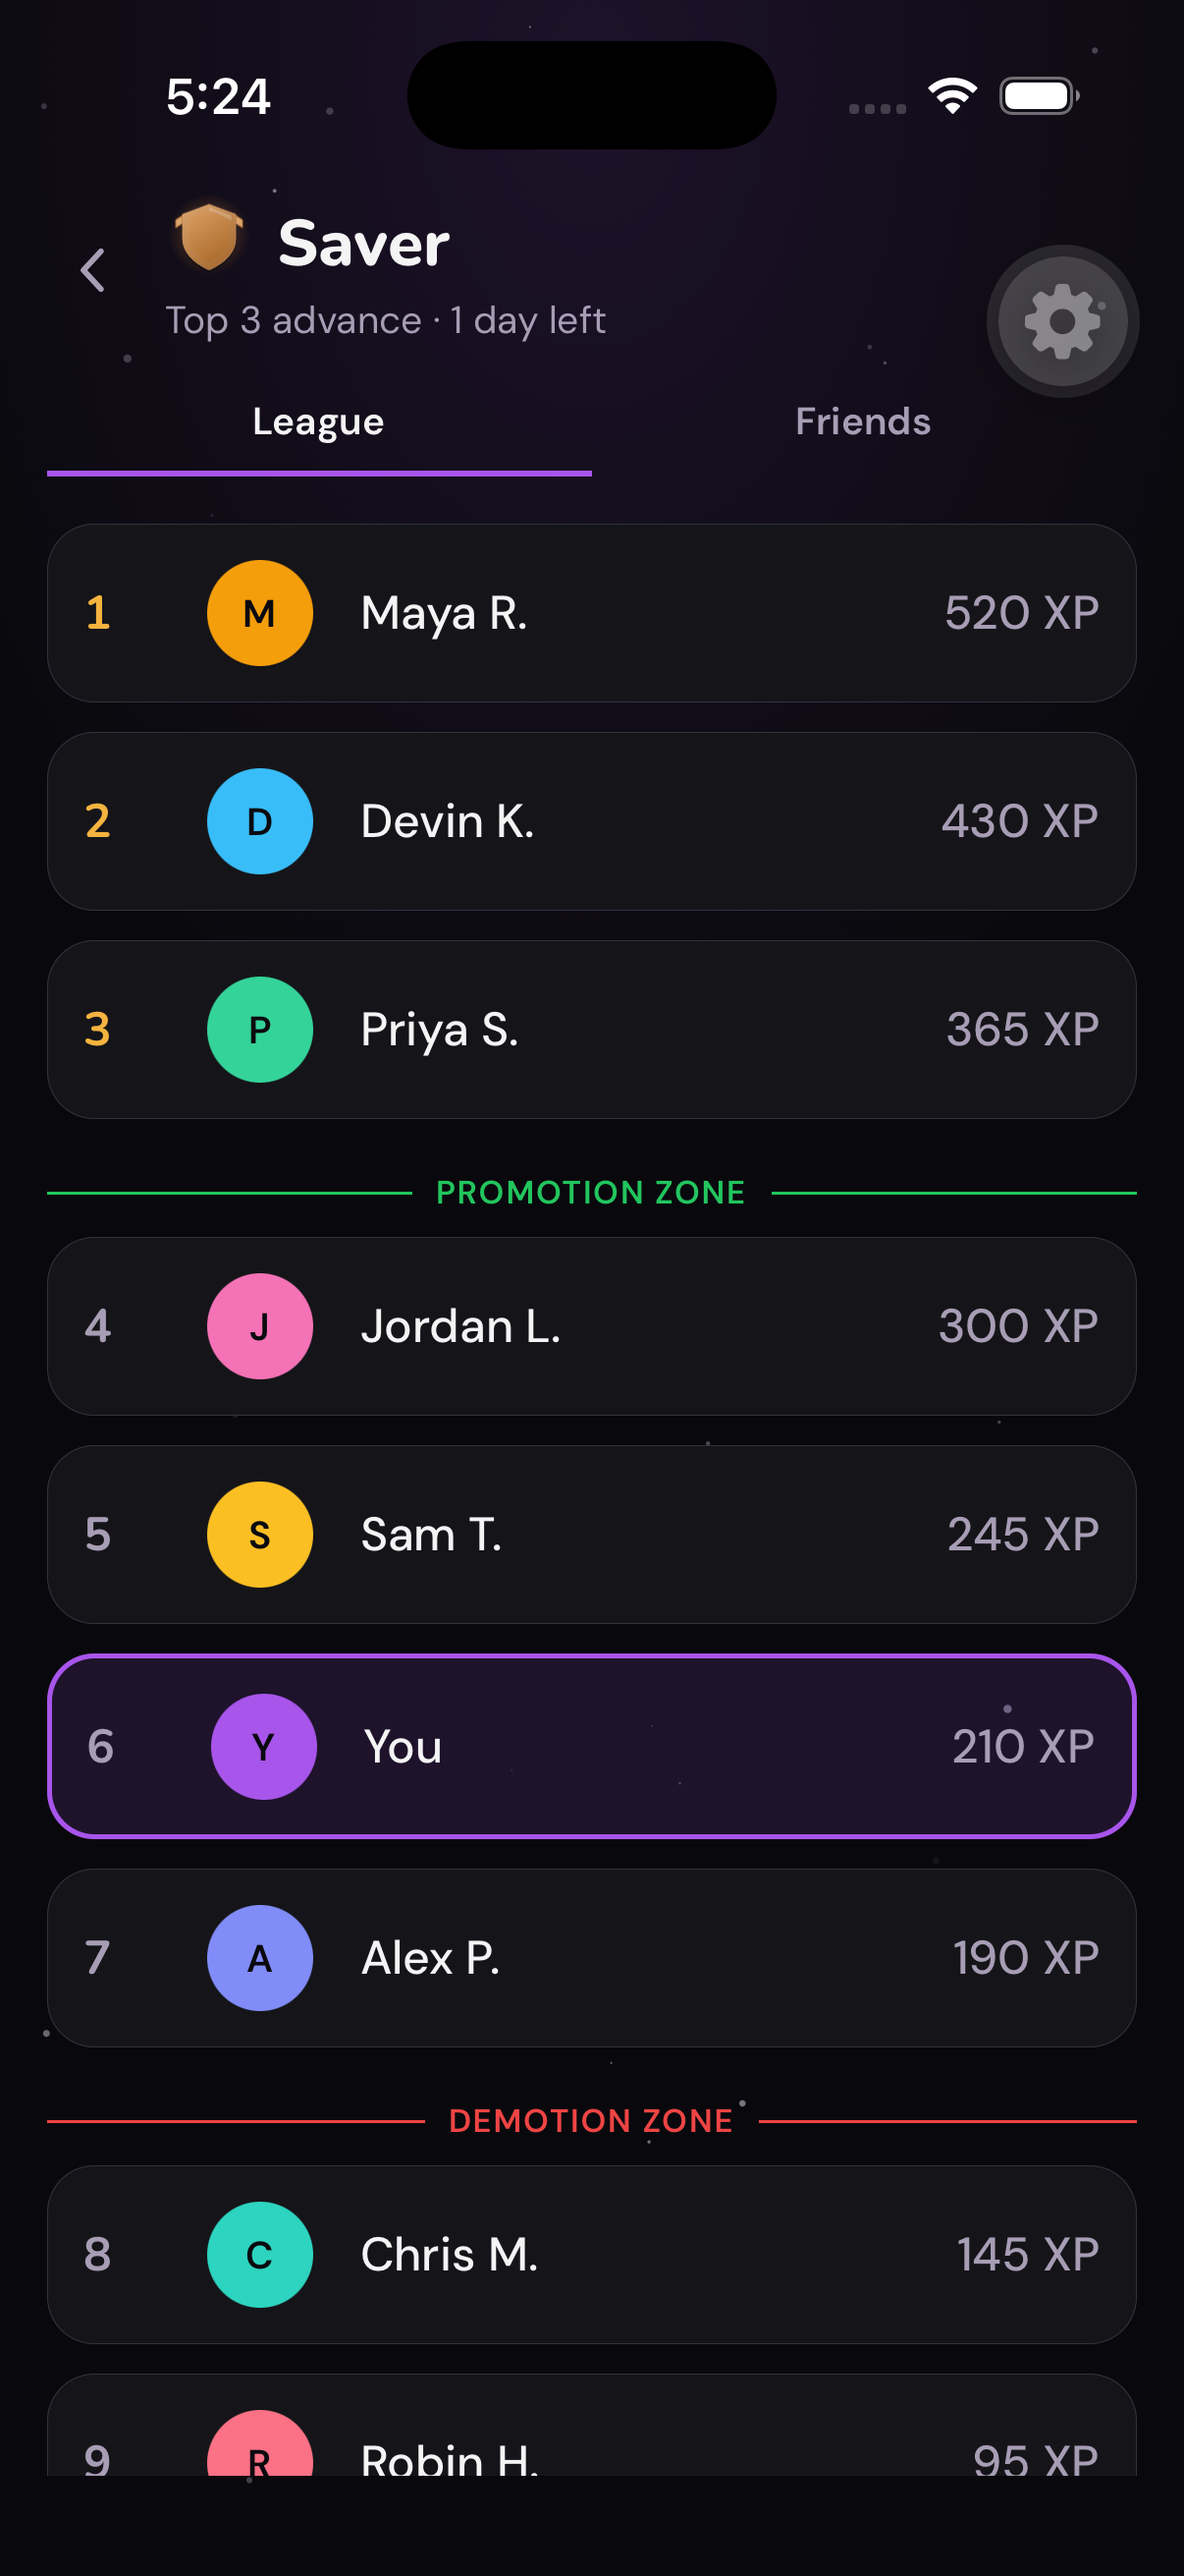
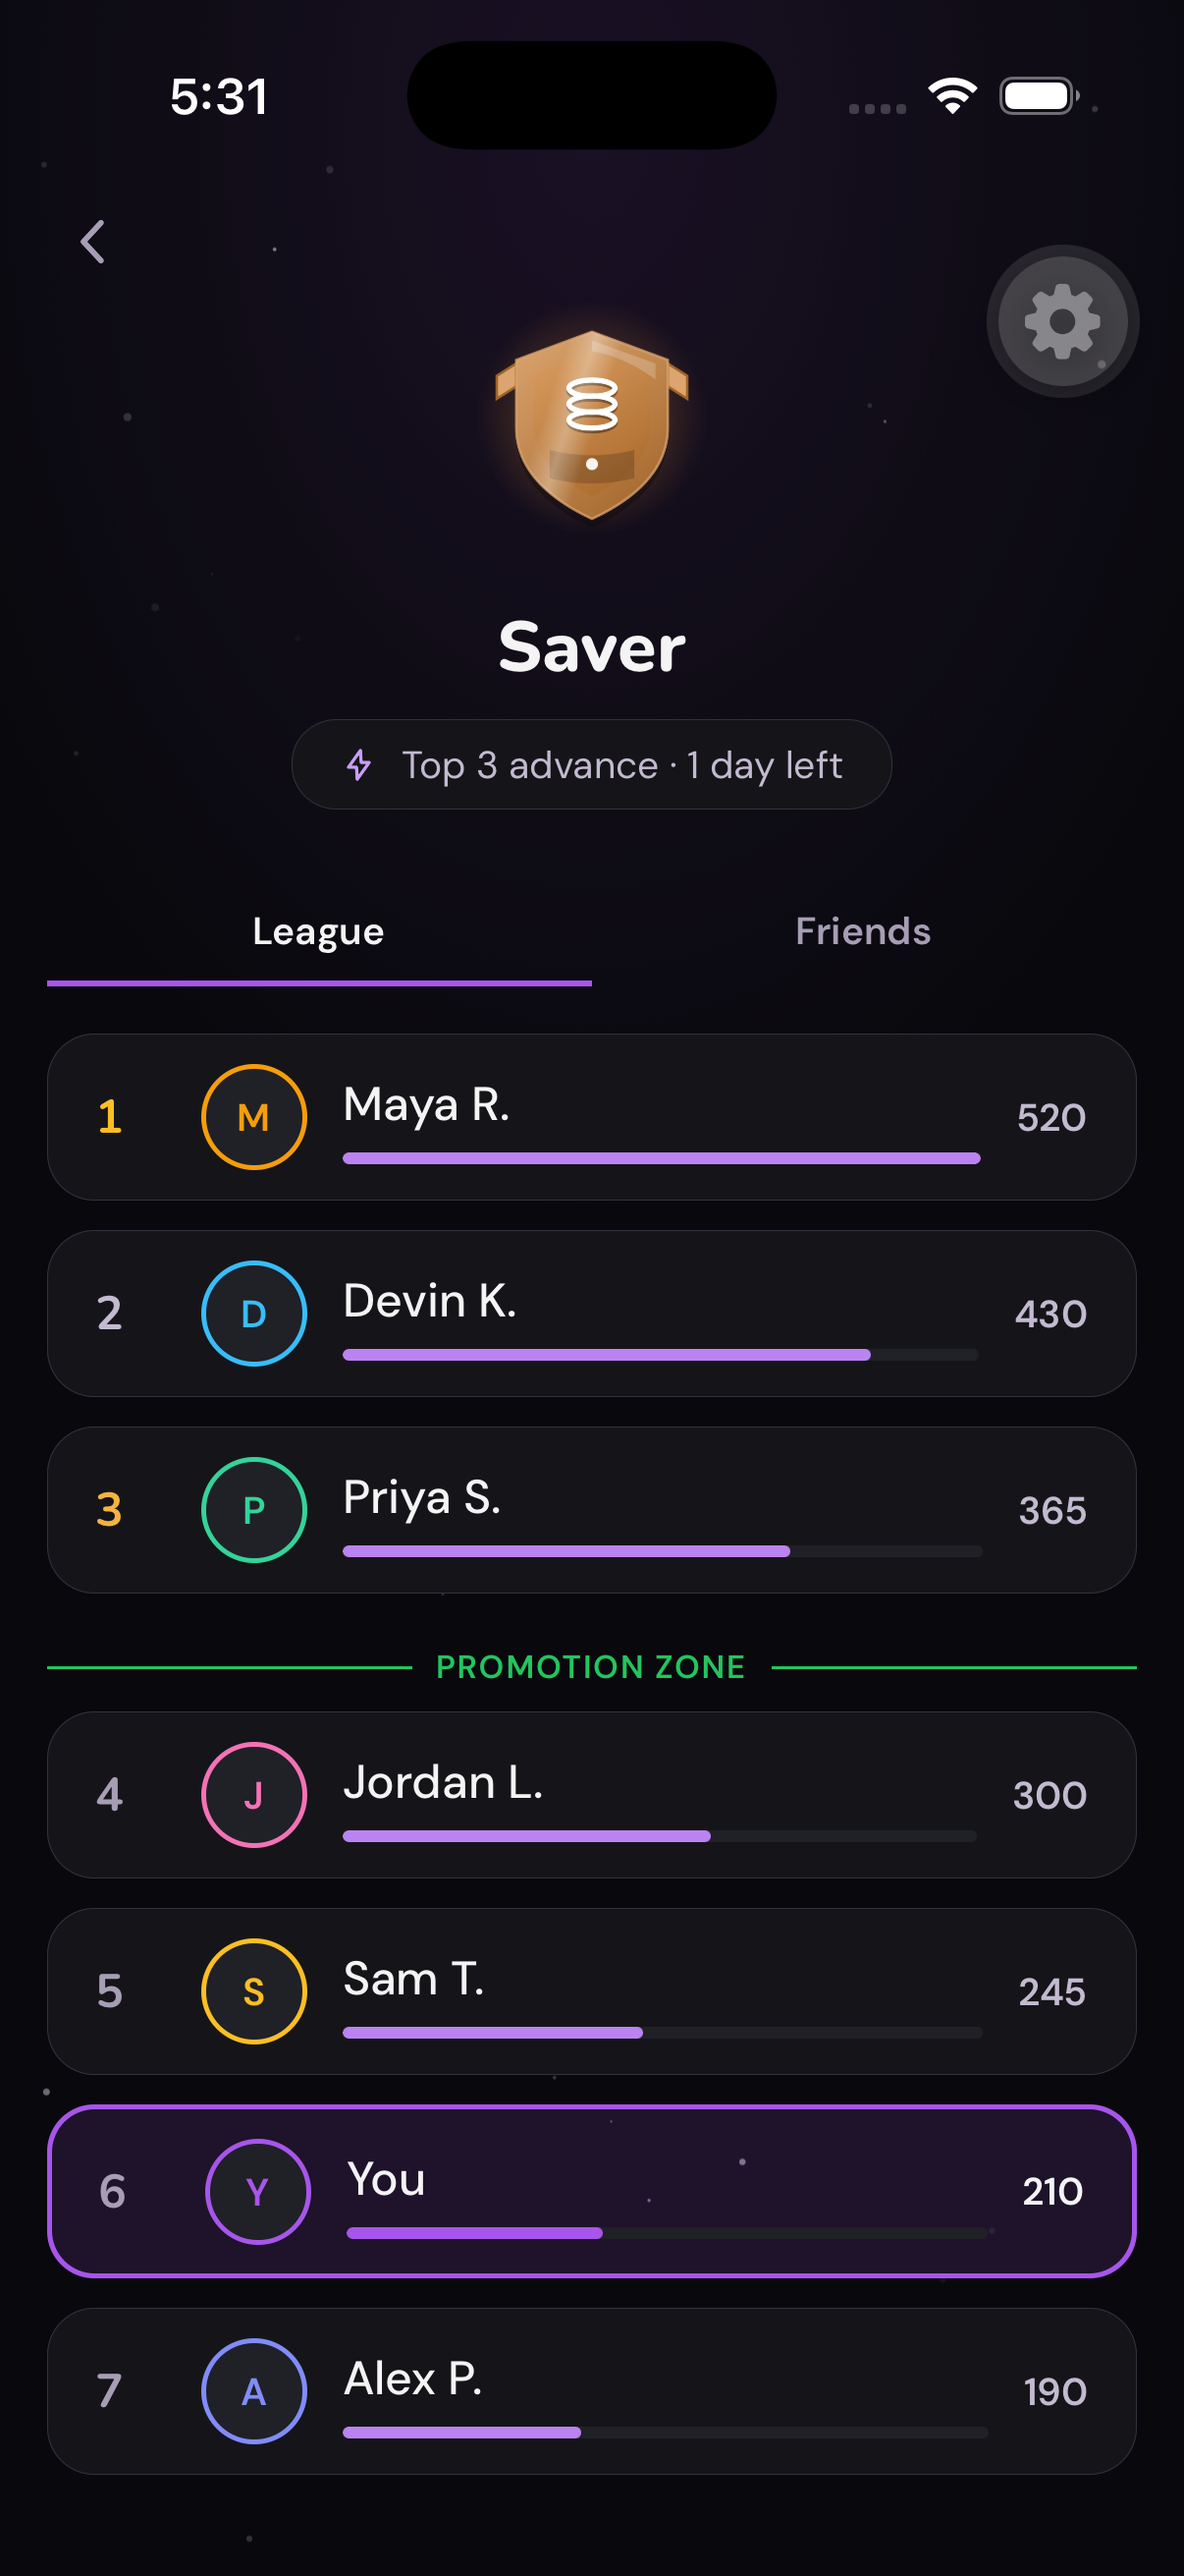
feat(league): redesign the league screen (C75)
The user pointed at League and said it had never been redesigned. They were
right, and the worse half is mine: I featured the least-designed surface in the
app as App Store shot 7 without noticing it had never been through a unit.
Units 6-12 covered Home, Learn, You, Digest, Trade and the art system. League
was never in scope, and §13's consistency pass did not catch it because that
pass measured tokens, not whether a screen had been designed at all.

The crest was rendered at 30pt -- smaller than the avatars beneath it -- so the
one piece of authored art on the screen was the least visible thing on it. It
is now the subject at 84pt.

Rows were a table: rank, initial-disc, name, number. Each row now carries an XP
bar relative to the leader, because a league's information IS the gap and a
column of right-aligned figures hides it.

Nine saturated discs read as a default avatar palette borrowed from another
app. The person's colour is now a ring on a brand-tinted chip -- identity kept,
lib/people untouched because Friends shares it.

leader is Math.max(1, ...): a zero would make every bar NaN% wide, which React
Native renders as FULL width, so everyone would look tied with the leader.

ScreensDesign was out of data budget, so per §0.2 rule 7 this is specced from
the app's own language and HIG and labelled as such, rather than bending §6.1's
banked material -- which covers Duolingo's leaderboard gate, not row design.

diff --git a/src/app/league.tsx b/src/app/league.tsx
@@ -82,6 +82,11 @@ export default function League() {
     { name: 'You', xp: weekly, color: '#A855EB', me: true },
   ].sort((a, b) => b.xp - a.xp);
   const zoned = tab === 'league';
+  // Never zero: a divide-by-zero here would make every bar NaN% wide, which React Native renders
+  // as full width — every player would look tied with the leader.
+  const leader = Math.max(1, ...players.map((p) => p.xp));
+  const medal = (i: number) =>
+    i === 0 ? theme.iconGold : i === 1 ? theme.textSecondary : i === 2 ? theme.warning : theme.mutedForeground;
 
   return (
     <SafeAreaView style={styles.safe}>
@@ -91,14 +96,24 @@ export default function League() {
         <SpringPressable haptic={false} scaleTo={0.85} onPress={() => router.back()} style={styles.back} hitSlop={10}>
           <UIcon name="chevronLeft" size={22} color={theme.mutedForeground} />
         </SpringPressable>
-        <View style={{ flex: 1 }}>
-          <View style={styles.titleRow}>
-            <LeagueCrest tier={tier} size={30} />
-            <ThemedText type="title" style={{ fontSize: FontSize.titleSm }} numberOfLines={1}>{tier.name}</ThemedText>
-          </View>
-          <ThemedText type="small" themeColor="mutedForeground">Top 3 advance · {daysLeft()}</ThemedText>
-        </View>
       </View>
+
+      {/*
+        The crest is the SUBJECT now. It was rendered at 30pt beside the title, which made the one
+        piece of authored art on this screen smaller than the avatars beneath it — the screen read
+        as a generic ranked list that happened to have a badge, rather than as a place you are
+        trying to climb out of.
+      */}
+      <RiseIn>
+        <View style={styles.crestBlock}>
+          <LeagueCrest tier={tier} size={84} />
+          <ThemedText type="title" style={{ fontSize: FontSize.title }} numberOfLines={1}>{tier.name}</ThemedText>
+          <View style={[styles.timePill, { backgroundColor: theme.card, borderColor: theme.border }]}>
+            <UIcon name="bolt" size={13} color={theme.iconLilac} />
+            <ThemedText type="small" themeColor="textSecondary">Top {PROMOTE} advance · {daysLeft()}</ThemedText>
+          </View>
+        </View>
+      </RiseIn>
 
       <View style={styles.tabs}>
         {(['league', 'friends'] as const).map((t) => (
@@ -132,12 +147,41 @@ export default function League() {
                     borderWidth: p.me ? 1.5 : StyleSheet.hairlineWidth,
                   },
                 ]}>
-                <ThemedText type="heading" style={{ width: 26, fontSize: FontSize.body, color: i < 3 ? theme.warning : theme.mutedForeground }}>{i + 1}</ThemedText>
-                <View style={[styles.avatar, { backgroundColor: p.color }]}>
-                  <ThemedText type="smallBold" style={{ color: '#0A0A0F' }}>{p.name[0]}</ThemedText>
+                <ThemedText
+                  type="heading"
+                  style={{ width: 24, fontSize: FontSize.body, fontVariant: ['tabular-nums'], color: medal(i) }}>
+                  {i + 1}
+                </ThemedText>
+                {/*
+                  The person's colour becomes a RING rather than a filled disc. Nine saturated discs
+                  in a violet app read as a default avatar palette borrowed from somewhere else;
+                  as rings on a brand-tinted chip they still identify the person and the screen
+                  stays one app. lib/people is shared with Friends, so the data is untouched.
+                */}
+                <View style={[styles.avatar, { backgroundColor: theme.cardElevated, borderColor: p.color }]}>
+                  <ThemedText type="smallBold" style={{ color: p.color }}>{p.name[0]}</ThemedText>
                 </View>
-                <ThemedText type="bodyMedium" style={{ flex: 1, color: p.me ? theme.text : theme.text }}>{p.me ? 'You' : p.name}</ThemedText>
-                <ThemedText type="bodyMedium" style={{ fontVariant: ['tabular-nums'], color: theme.mutedForeground }}>{commas(p.xp)} XP</ThemedText>
+                <View style={styles.who}>
+                  <ThemedText type="bodyMedium" numberOfLines={1}>{p.me ? 'You' : p.name}</ThemedText>
+                  {/*
+                    Relative to the LEADER, so the list reads as a race rather than a table of
+                    numbers. This is the whole point of a league: the gap is the information, and
+                    a column of right-aligned figures hides it.
+                  */}
+                  <View style={[styles.track, { backgroundColor: theme.muted }]}>
+                    <View
+                      style={[
+                        styles.fill,
+                        { backgroundColor: p.me ? theme.primary : theme.iconViolet, width: `${Math.max(4, Math.round((p.xp / leader) * 100))}%` },
+                      ]}
+                    />
+                  </View>
+                </View>
+                <ThemedText
+                  type="smallBold"
+                  style={{ fontVariant: ['tabular-nums'], color: p.me ? theme.text : theme.textSecondary }}>
+                  {commas(p.xp)}
+                </ThemedText>
               </View>
             </RiseIn>
           </View>
@@ -153,8 +197,13 @@ const styles = StyleSheet.create({
   back: { width: 32, height: 32, alignItems: 'center', justifyContent: 'center' },
   titleRow: { flexDirection: 'row', alignItems: 'center', gap: Spacing.two },
   content: { padding: Spacing.three, paddingBottom: BottomTabInset + Spacing.four, gap: Spacing.two + 2 },
-  row: { flexDirection: 'row', alignItems: 'center', gap: Spacing.three, padding: Spacing.two + 4, borderRadius: Radius.lg },
-  avatar: { width: 36, height: 36, borderRadius: 18, alignItems: 'center', justifyContent: 'center' },
+  row: { flexDirection: 'row', alignItems: 'center', gap: Spacing.two + 4, paddingHorizontal: Spacing.three, paddingVertical: Spacing.two + 2, borderRadius: Radius.lg },
+  avatar: { width: 36, height: 36, borderRadius: 18, borderWidth: 1.5, alignItems: 'center', justifyContent: 'center' },
+  crestBlock: { alignItems: 'center', gap: Spacing.two, paddingTop: Spacing.one, paddingBottom: Spacing.three },
+  timePill: { flexDirection: 'row', alignItems: 'center', gap: Spacing.two, paddingHorizontal: Spacing.three, paddingVertical: Spacing.one + 2, borderRadius: Radius.pill, borderWidth: StyleSheet.hairlineWidth },
+  who: { flex: 1, gap: 5 },
+  track: { height: 4, borderRadius: Radius.hairline, overflow: 'hidden' },
+  fill: { height: 4, borderRadius: Radius.hairline },
   tabs: { flexDirection: 'row', paddingHorizontal: Spacing.three, marginTop: Spacing.two },
   tab: { alignItems: 'center', paddingVertical: Spacing.two, borderBottomWidth: 2 },
   friendsEmpty: { textAlign: 'center', lineHeight: 20, paddingHorizontal: Spacing.three, paddingBottom: Spacing.two },

diff --git a/refs/MASTER_PLAN.md b/refs/MASTER_PLAN.md
@@ -4982,3 +4982,30 @@ capturing, not after** — the second attempt confirmed "Saver · Top 3 advance 
 nothing." Unresolved by design: it is a decision about how a finance app depicts returns, and §0.4
 forbids the obvious shortcut of inventing a gain.
 
+### C75. THE LEAGUE SCREEN WAS NEVER REDESIGNED — and I put it in a store screenshot anyway.
+
+The user pointed at League and said so. They were right, and the worse half is mine: I featured the
+**least-designed surface in the app** as App Store shot 7 without noticing it had never been through
+a unit. Units 6–12 redesigned Home, Learn, You, Digest, Trade and the art system. **League was never
+in scope and nothing caught that** — §13's consistency pass measured tokens, not whether a screen
+had been designed at all.
+
+**ScreensDesign was out of data budget for this**, so per §0.2 rule 7 the redesign is specced from
+the app's own language and Apple HIG, and labelled as such rather than bending §6.1's banked
+material — which covers Duolingo's leaderboard GATE (`112782`), not its row design.
+
+| defect | fix |
+|---|---|
+| the one piece of authored art on the screen rendered at **30pt**, smaller than the avatars below it | `LeagueCrest` at **84pt** as the subject, with the tier name in title type and a time pill under it |
+| rows were rank + initial-disc + name + number — a **table** | each row carries an XP bar **relative to the leader**, so the gap is visible. A league's information IS the gap; right-aligned figures hide it |
+| nine saturated discs (orange, cyan, pink, yellow…) read as a borrowed default avatar palette | the person's colour becomes a **ring** on a brand-tinted chip. Identity kept, `lib/people` untouched because Friends shares it |
+| all of the top three shared one amber | 1 gold · 2 silver · 3 amber |
+
+**Guard worth keeping:** `leader` is `Math.max(1, ...)`. A zero would make every bar `NaN%`, which
+React Native renders as **full width** — every player would appear tied with the leader, and it
+would look like a design choice rather than a bug.
+
+**The general lesson, which is bigger than this screen:** a revamp scoped by UNIT misses any surface
+no unit named. Before Unit 14, every route in `certify.py`'s list of 18 should be checked for
+*whether it was ever designed*, not just whether it uses the tokens.
+
